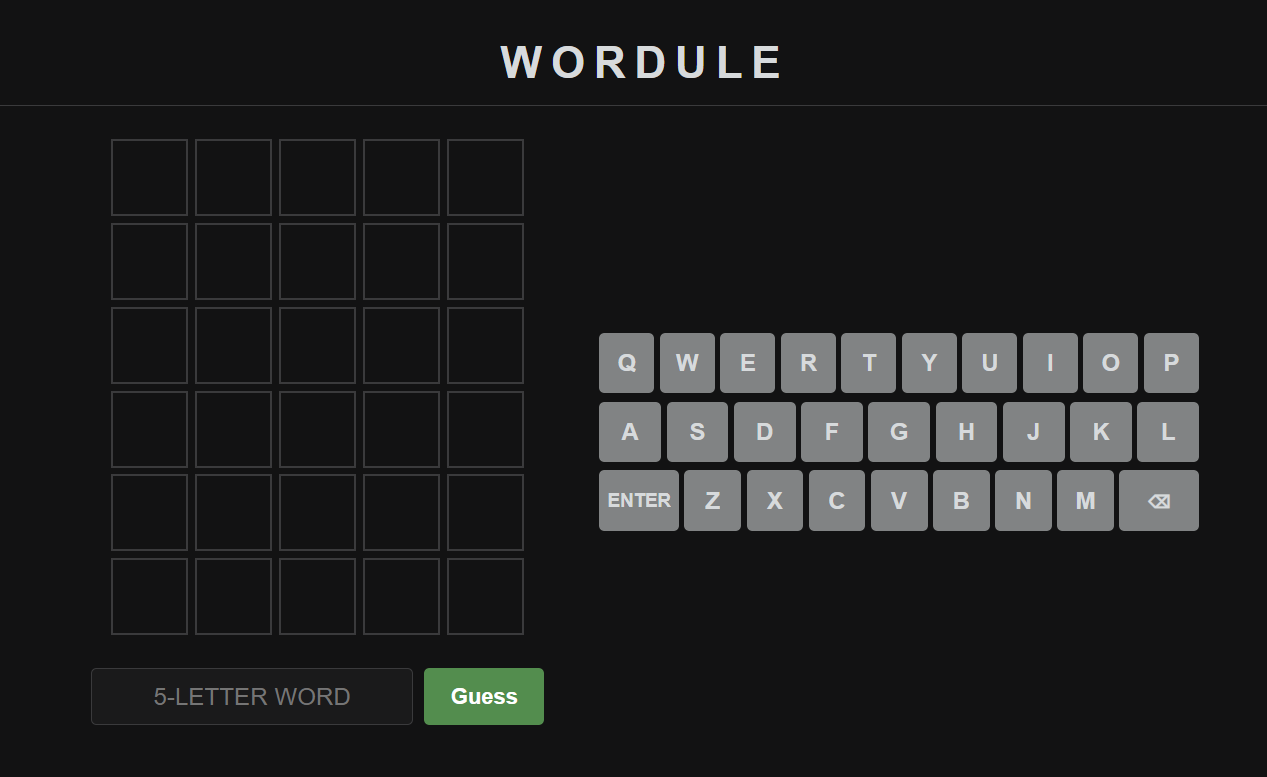
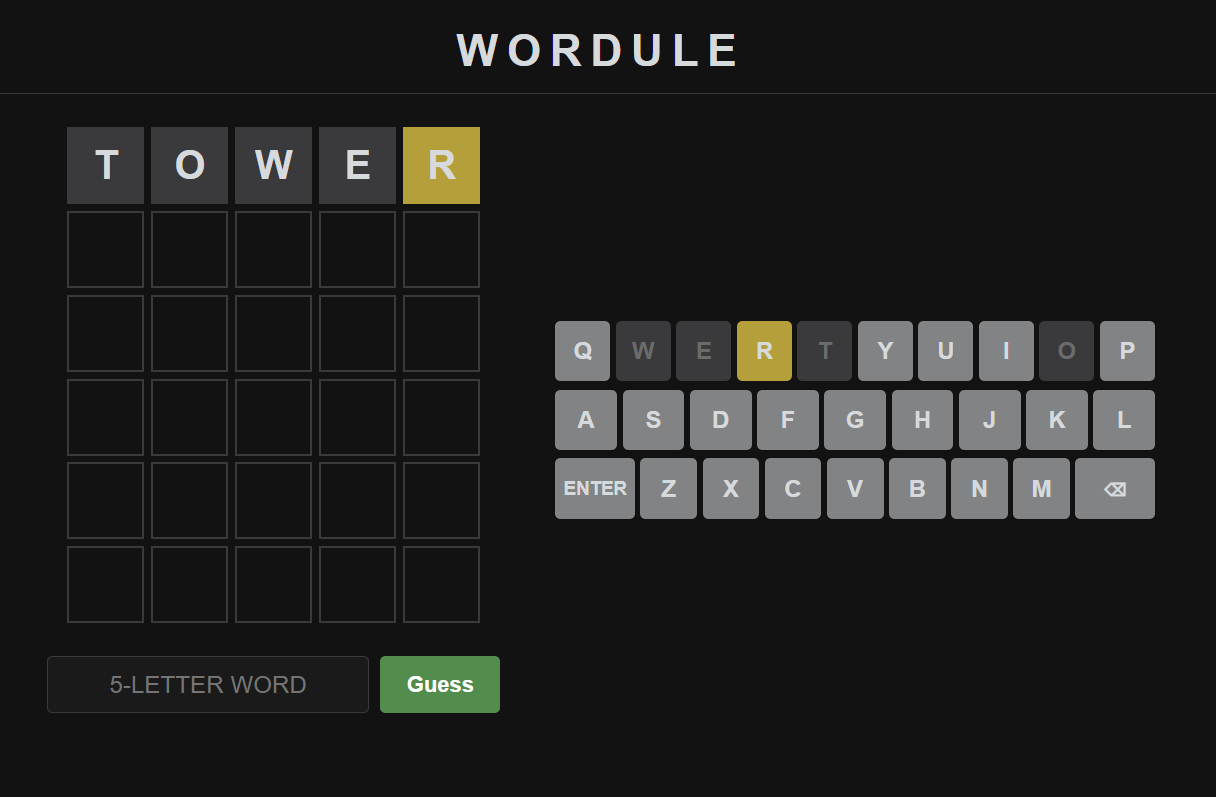
update game screenshot

Changed region(s): [[0.0312, 0.1544, 0.4375, 0.9575], [0.4375, 0.4015, 0.9688, 0.7104], [0.375, 0.0309, 0.625, 0.1236]]

diff --git a/README.md b/README.md
@@ -12,9 +12,9 @@ A Wordle clone built with Flask. Guess the hidden 5-letter word in 6 tries.
 
 - Type or click a 5-letter word, then press Guess
 - Each letter is colored after a guess:
-  - **Green** — correct letter, correct spot
-  - **Yellow** — correct letter, wrong spot
-  - **Gray** — letter not in the word
+  - **Green** - correct letter, correct spot
+  - **Yellow** - correct letter, wrong spot
+  - **Gray** - letter not in the word
 - The on-screen keyboard tracks the best-known status of every letter you've used
 - You have 6 guesses to find the word.
 